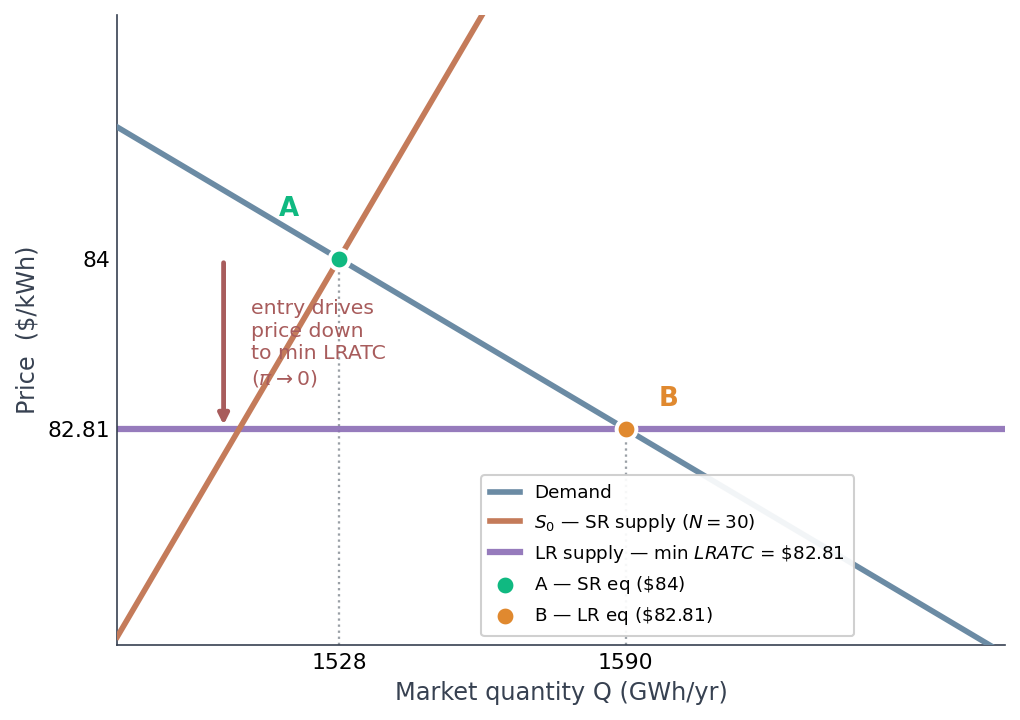
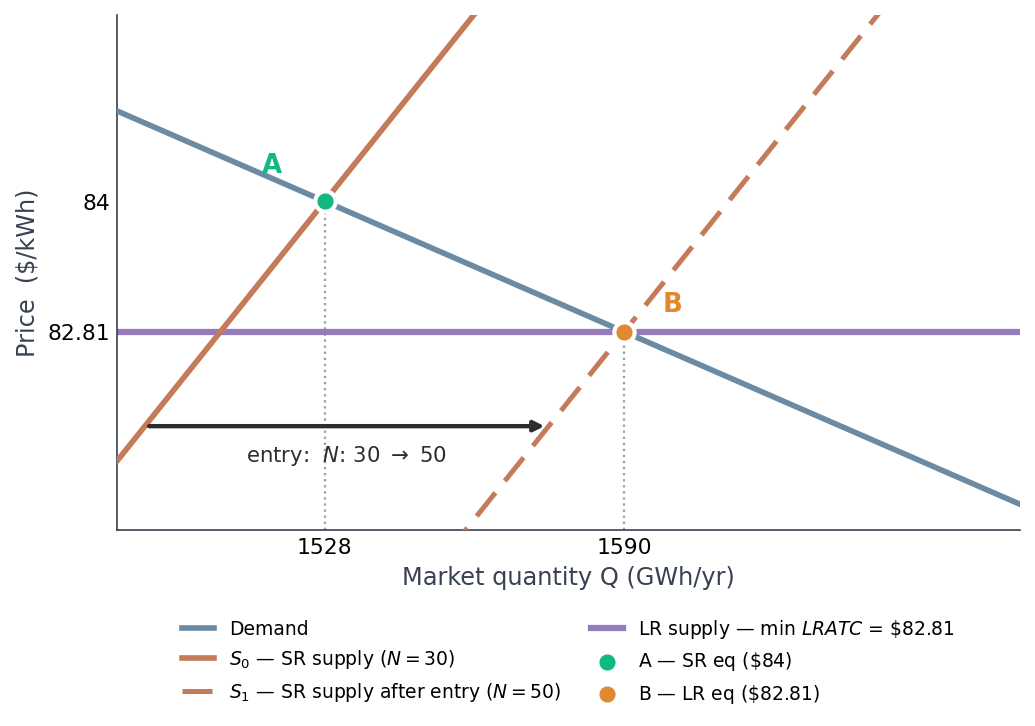
ch10 (2316): restore S1 (N=50) SR supply on n-star figure, drawn to cross demand exactly at the LR eq B ($82.81); update caption

diff --git a/econ2316/ch10-perfect-competition/index.html b/econ2316/ch10-perfect-competition/index.html
@@ -689,7 +689,7 @@
     </div>
     <div style="text-align: center;">
       <img alt="Zoomed long-run free-entry adjustment: demand crosses the steep short-run supply S0 at the SR equilibrium of 84 dollars; entry walks the price down the demand curve to the LR equilibrium of 82.81 dollars on the horizontal long-run supply at min LRATC" class="figure" src="figures/fig-lr-free-entry-adjust.png" style="max-height: 380px; margin: 0 auto;">
-      <p style="font-size: 11pt; color: var(--muted-color); margin: 6px 0 0;">Entry walks the price <em>down demand</em> from the SR eq (\$84) to the LR eq (\$82.81) on the horizontal LR supply.</p>
+      <p style="font-size: 11pt; color: var(--muted-color); margin: 6px 0 0;">Entry shifts SR supply \(S_0\!\to\!S_1\); the new SR eq lands on the horizontal LR supply &mdash; A (\$84) &rarr; B (\$82.81), \(\pi=0\).</p>
     </div>
   </div>
   <aside class="notes">The chapter's central result, and the resolution of Ch 9's cliffhanger. Under CRS, individual firm output is undefined at the knife-edge &mdash; which is exactly why we need industry-level analysis. Free entry pins \(p\); the plant-size anchor \(q^*=32\) GWh (Ch 7) pins per-firm output; demand then determines \(N^*\). The closed form \(N^* = Q^d(\min LRATC)/q^*\) is the payoff. \(1{,}590/32 = 49.69 \approx 50\). The deep idea: which variable is endogenous flips between SR (price) and LR (firm count). Drive this home &mdash; it's the most-tested concept in the chapter.</aside>

diff --git a/econ2316/ch10-perfect-competition/presentation.html b/econ2316/ch10-perfect-competition/presentation.html
@@ -689,7 +689,7 @@
     </div>
     <div style="text-align: center;">
       <img alt="Zoomed long-run free-entry adjustment: demand crosses the steep short-run supply S0 at the SR equilibrium of 84 dollars; entry walks the price down the demand curve to the LR equilibrium of 82.81 dollars on the horizontal long-run supply at min LRATC" class="figure" src="figures/fig-lr-free-entry-adjust.png" style="max-height: 380px; margin: 0 auto;">
-      <p style="font-size: 11pt; color: var(--muted-color); margin: 6px 0 0;">Entry walks the price <em>down demand</em> from the SR eq (\$84) to the LR eq (\$82.81) on the horizontal LR supply.</p>
+      <p style="font-size: 11pt; color: var(--muted-color); margin: 6px 0 0;">Entry shifts SR supply \(S_0\!\to\!S_1\); the new SR eq lands on the horizontal LR supply &mdash; A (\$84) &rarr; B (\$82.81), \(\pi=0\).</p>
     </div>
   </div>
   <aside class="notes">The chapter's central result, and the resolution of Ch 9's cliffhanger. Under CRS, individual firm output is undefined at the knife-edge &mdash; which is exactly why we need industry-level analysis. Free entry pins \(p\); the plant-size anchor \(q^*=32\) GWh (Ch 7) pins per-firm output; demand then determines \(N^*\). The closed form \(N^* = Q^d(\min LRATC)/q^*\) is the payoff. \(1{,}590/32 = 49.69 \approx 50\). The deep idea: which variable is endogenous flips between SR (price) and LR (firm count). Drive this home &mdash; it's the most-tested concept in the chapter.</aside>
